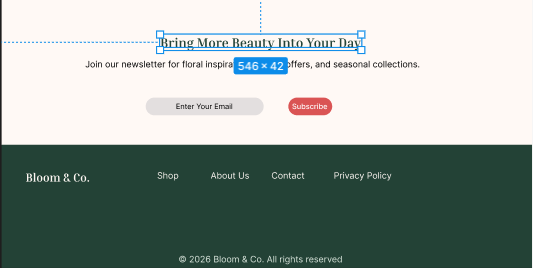
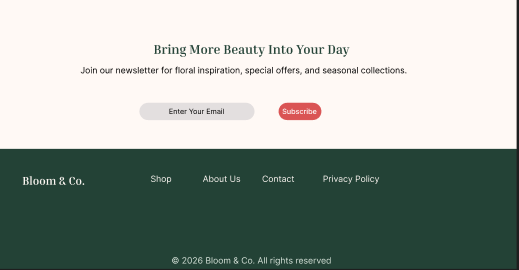
Update README and design screenshot

diff --git a/README.md b/README.md
@@ -1,1 +1,126 @@
-# Bloom-Co
+# Bloom & Co. – Florist eCommerce Landing Page
+
+## Project Overview
+
+Bloom & Co. is a modern florist eCommerce landing page designed for an online flower shop.
+
+The design focuses on creating a clean, elegant, fresh, and welcoming experience while making it easy for customers to explore flowers and find arrangements for different occasions.
+
+This project was created as a UI/UX design task based on a florist eCommerce design brief.
+
+## Features
+
+- Clean and minimal landing page design
+- Hero section with a clear call-to-action
+- Occasion-based flower categories
+- Featured flower products with prices
+- "Why Shop With Us?" section
+- Customer testimonials
+- Newsletter subscription section
+- Simple and clean footer navigation
+
+## Design Sections
+
+### 1. Hero Section
+
+The hero section introduces Bloom & Co. with the tagline:
+
+> Flowers that make every moment bloom
+
+It includes two call-to-action buttons:
+
+- Shop Flowers
+- Explore Collections
+
+The section also highlights flower categories for different occasions:
+
+- Birthday
+- Anniversary
+- Date
+- Just Because
+
+### 2. Featured Flowers
+
+The featured products section displays selected flower arrangements with their names and prices.
+
+Products shown include:
+
+- Sunflower Bouquet – ₹1,499
+- Mixed Flower Bouquet – ₹1,299
+- Lilly Bouquet – ₹1,799
+
+### 3. Why Shop With Us?
+
+This section highlights the main benefits of shopping with Bloom & Co.:
+
+- Fresh & Beautiful
+- Reliable Delivery
+- Made for Every Moment
+
+It also includes customer testimonials to build trust with potential customers.
+
+### 4. Newsletter & Footer
+
+The newsletter section encourages visitors to subscribe for:
+
+- Floral inspiration
+- Special offers
+- Seasonal collections
+
+The footer contains navigation links such as:
+
+- Shop
+- About Us
+- Contact
+- Privacy Policy
+
+## Design Approach
+
+The design follows a:
+
+- Minimalist
+- Elegant
+- Fresh
+- Modern
+- Colorful but balanced
+
+visual style.
+
+The layout focuses on clear visual hierarchy, consistent spacing, readable typography, and simple navigation.
+
+## Screenshots
+
+### Hero Section & Occasion Categories
+
+![Hero Section](Images/img1.png)
+
+### Featured Flowers
+
+![Featured Flowers](Images/img2.png)
+
+### Why Shop With Us & Testimonials
+
+![Why Shop With Us](Images/img3.png)
+
+### Newsletter & Footer
+
+![Newsletter and Footer](Images/img4.png)
+
+## Tools Used
+
+- Figma
+- Git
+- GitHub
+
+## Project Structure
+
+```text
+Bloom-Co/
+│
+├── README.md
+│
+└── Images/
+    ├── img1.png
+    ├── img2.png
+    ├── img3.png
+    └── img4.png
